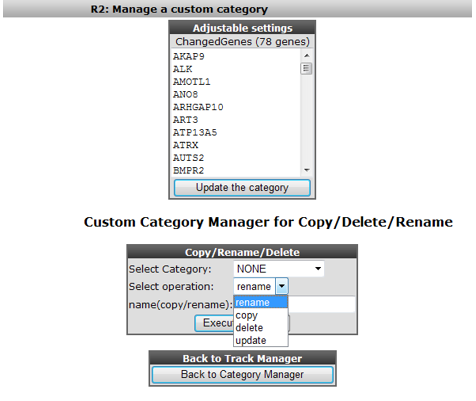
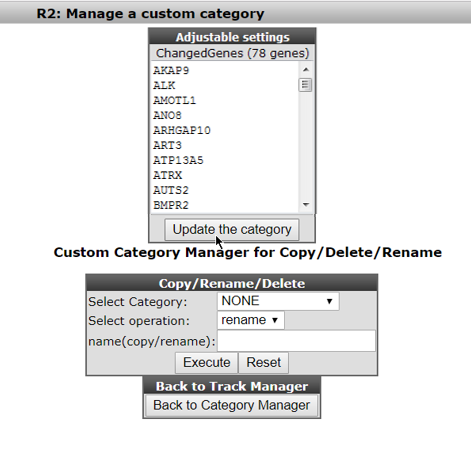
Hfst 22 Adapting R2, last changes step 5

Changed region(s): [[0.0, 0.0, 1.0, 0.5686], [0.178, 0.5985, 0.8008, 0.9875]]

diff --git a/docs/Adapting_R2.md b/docs/Adapting_R2.md
@@ -145,7 +145,7 @@ Step 3: Create your own genesets; a.k.a. categories
     	
 7.  We now return to the side menu of the R2 page to find out how we can manage
     the categories we just built. From the 'User Options' item in the menu hover over
-    'Categories' and click 'Manage Categories'. The Category Manager opens up. 
+    'Categories' and click 'Manage Categories'.  
     The Category Manager (Figure 11) allows you to keep track of the categories; 
     sets of genes that you've stored within R2. 
     To keep track of large amounts of categories these can be stored in Collections. 
@@ -157,26 +157,25 @@ Step 3: Create your own genesets; a.k.a. categories
 	
 8.  Existing Categories can be adapted or deleted. New Categories can be based on
     existing ones. As an example we're going to update the Category we
-    just made. Click the 'Copy/Delete/Rename/Edit Categories' button.
+    just made. Click the 'Copy/Delete/Rename/Edit Categories' button of the Category Manager (Figure 11). 
+    In the next screen you'll be asked what type of procedure is needed for your Category of choice. 
+    First, chose 'ChangedGenes' from the 'Select Category' dropdown menu. Then choose from the 'Select operation' dropdown the 'update' item 
+    and click 'Execute'. 
     
 	![](_static/images/AdaptingR2_Selectprocedure.png "Figure    12: Select the procedure for a Category; in this case    'update")
 	
 	[**Figure    12: Select the procedure for a Category; in this case    'update**](_static/images/AdaptingR2_Selectprocedure.png)
 	
-9.  In the next screen you'll be asked what type of procedure is needed
-    for your Category of choice. First, chose 'ChangedGenes' from the 'Select Category' dropdown menu. 
-    In our case we want to keep the Category and update it with a list of 78 genes. Choose for 'Select operation' the 'update' item and click 'Execute'.
-    
+9.  In our case we want to keep the Category and update it with a list of 78 genes. After you have typed your list of genes in the box,
+    click the Update the category box.
+        
 	![](_static/images/AdaptingR2_AdaptCategory.png "Figure    13: The Category we just built can be adapted in    all details.")
 	
 	[**Figure    13: The Category we just built can be adapted in    all details.**](_static/images/AdaptingR2_AdaptCategory.png)
 	
-10. The details of the Category we built in the former steps are
+    All details of the Category we built in the former steps are
     available for adaptation. In this way you can keep track and adapt
-    the sets you use for your analyses.
-
-
-
+    the gene sets you use for your analyses.
 
 
 Step 4: Tracks in R2: create your own data annotation
@@ -285,6 +284,7 @@ Step 4: Tracks in R2: create your own data annotation
     [**Figure    22 B: 'Drawtracks' makes tracks visible under the graph; tracks can be grouped by defining 'Collections'**](_static/images/AdaptingR2_SelectDefaultResult.png)
 
     Use the 'Reset' button for Tracks or Collections in the Default Tracks Manager to undo either of the changes, or use the 'Reset to defaults button' to go back to the original dataset settings of tracks.  
+
 
 Step 5: Upload your own tracks
 ---------------
